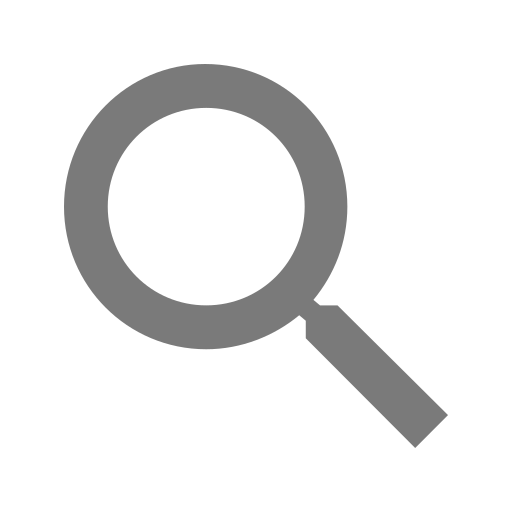
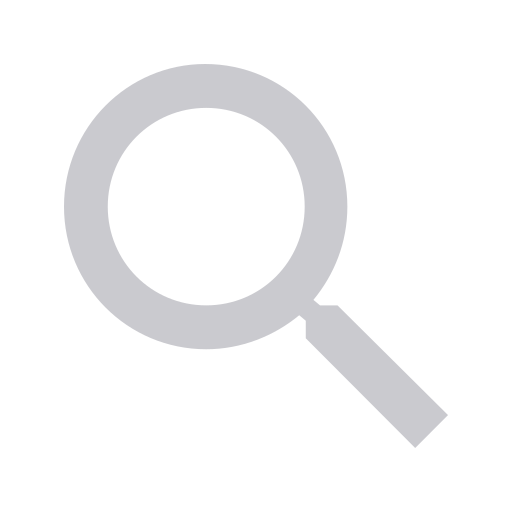
Update navbar active images

Changed region(s): [[0.125, 0.125, 0.875, 0.875]]

diff --git a/client/Components/Presentational/Navbar/Navbar.js b/client/Components/Presentational/Navbar/Navbar.js
@@ -1,6 +1,8 @@
-import React from "react";
+import React, { useContext } from "react";
 import { StyleSheet, View, Image } from "react-native";
 import { Link } from "react-router-native";
+import { Store } from "../../store/store";
+import { navigateApp } from "../../store/actions/index";
 
 import searchIcon from "../../../assets/images/search-icon.png";
 import searchIconSelected from "../../../assets/images/search-icon-selected.png";
@@ -9,25 +11,43 @@ import homeIconSelected from "../../../assets/images/home-icon-selected.png";
 import profileIcon from "../../../assets/images/profile-icon.png";
 import profileIconSelected from "../../../assets/images/profile-icon-selected.png";
 
-const Navbar = ({ history }) => {
+const Navbar = props => {
+  const { state, dispatch } = useContext(Store);
+  const { homeViewSelected, profileViewSelected, searchViewSelected } = state;
+  const handlePress = type => {
+    navigateApp(type, dispatch);
+  };
   return (
     <View style={styles.container}>
-      <Link underlayColor={"#ffffff"} to="/search">
+      <Link
+        onPress={() => handlePress("search")}
+        underlayColor={"#ffffff"}
+        to="/search"
+      >
         <Image
           style={styles.navbarImg}
-          source={history === "/search" ? searchIconSelected : searchIcon}
+          source={searchViewSelected ? searchIconSelected : searchIcon}
         />
       </Link>
-      <Link underlayColor={"#ffffff"} exact to="/">
+      <Link
+        onPress={() => handlePress("home")}
+        underlayColor={"#ffffff"}
+        exact
+        to="/"
+      >
         <Image
           style={styles.navbarImg}
-          source={history === "/" ? homeIconSelected : homeIcon}
+          source={homeViewSelected ? homeIconSelected : homeIcon}
         />
       </Link>
-      <Link underlayColor={"#ffffff"} to="/profile">
+      <Link
+        onPress={() => handlePress("profile")}
+        underlayColor={"#ffffff"}
+        to="/profile"
+      >
         <Image
           style={styles.navbarImg}
-          source={history === "/profile" ? profileIconSelected : profileIcon}
+          source={profileViewSelected ? profileIconSelected : profileIcon}
         />
       </Link>
     </View>

diff --git a/client/Components/Views/HomeView/HomeView.js b/client/Components/Views/HomeView/HomeView.js
@@ -1,5 +1,12 @@
 import React, { useEffect, useContext } from "react";
-import { StyleSheet, ScrollView, View, Text, Image } from "react-native";
+import {
+  StyleSheet,
+  ScrollView,
+  View,
+  Text,
+  Image,
+  ActivityIndicator
+} from "react-native";
 import { Store } from "../../store/store";
 import {
   fetchCharityList,
@@ -12,11 +19,11 @@ import { DonationCard } from "../../Presentational/DonationCard";
 const HomeView = props => {
   const { state, dispatch } = useContext(Store);
   const { donations, charities, token, account } = state;
-  const { firstName, lastName } = account;
+  const { firstName } = account;
   useEffect(() => {
-    let token =
-      "eyJhbGciOiJIUzI1NiIsInR5cCI6IkpXVCJ9.eyJzdWJqZWN0IjoyLCJ1c2VybmFtZSI6ImFkbWluIiwiaWF0IjoxNTU1NDQ0ODU3LCJleHAiOjE1NTU1MzEyNTd9.z8xmaIeUMsaAhuGfbYbwOTCoah0hFq6KrBGDYVmJcwU";
-    let username = "admin";
+    // let token =
+    //   "eyJhbGciOiJIUzI1NiIsInR5cCI6IkpXVCJ9.eyJzdWJqZWN0IjoyLCJ1c2VybmFtZSI6ImFkbWluIiwiaWF0IjoxNTU1NDQ0ODU3LCJleHAiOjE1NTU1MzEyNTd9.z8xmaIeUMsaAhuGfbYbwOTCoah0hFq6KrBGDYVmJcwU";
+    // let username = "admin";
 
     // Get data on home page load for speed of user flow later if not already accessed
     if (!donations.length) {
@@ -41,9 +48,17 @@ const HomeView = props => {
             ? `Afternoon, ${firstName}! Here are your donations:`
             : `Evening, ${firstName}! Here are your donations:`}
         </Text>
-        {donations.map((donation, index) => {
-          return <DonationCard donation={donation} key={index} />;
-        })}
+        {donations.length ? (
+          donations.map((donation, index) => {
+            return <DonationCard donation={donation} key={index} />;
+          })
+        ) : (
+          <ActivityIndicator
+            style={styles.loadingIcon}
+            size="large"
+            color="#4F68F4"
+          />
+        )}
       </ScrollView>
     </View>
   );
@@ -95,6 +110,9 @@ const styles = StyleSheet.create({
     fontFamily: "Roboto-Medium",
     fontSize: 20,
     marginTop: 10
+  },
+  loadingIcon: {
+    marginTop: 50
   }
 });
 

diff --git a/client/Components/Store/reducers/index.js b/client/Components/Store/reducers/index.js
@@ -16,7 +16,10 @@ import {
   FETCH_USER_DONATIONS_SUCCESS,
   FETCH_USER_DONATIONS_ERROR,
   UPDATE_SHOWN_CHARITY_LIST,
-  RESET_SHOWN_CHARITY_LIST
+  RESET_SHOWN_CHARITY_LIST,
+  GO_HOME,
+  GO_SEARCH,
+  GO_PROFILE
 } from "../types/index";
 
 export const initialState = {
@@ -43,6 +46,9 @@ export const initialState = {
   },
   charitySearchInput: "",
   message: "",
+  homeViewSelected: true,
+  searchViewSelected: false,
+  profileViewSelected: false,
   loginStart: false,
   loginSuccess: false,
   loginError: false,
@@ -204,6 +210,27 @@ export const reducer = (state, action) => {
         getUserDonationsStart: false,
         getUserDonationsError: true,
         message: action.payload
+      };
+    case GO_HOME: // Navigation logic
+      return {
+        ...state,
+        homeViewSelected: true,
+        searchViewSelected: false,
+        profileViewSelected: false
+      };
+    case GO_SEARCH: // Navigation logic
+      return {
+        ...state,
+        homeViewSelected: false,
+        searchViewSelected: true,
+        profileViewSelected: false
+      };
+    case GO_PROFILE: // Navigation logic
+      return {
+        ...state,
+        homeViewSelected: false,
+        searchViewSelected: false,
+        profileViewSelected: true
       };
     default:
       return state;

diff --git a/client/Components/Views/SearchView/SearchView.js b/client/Components/Views/SearchView/SearchView.js
@@ -9,7 +9,10 @@ import {
   TextInput
 } from "react-native";
 import { Store } from "../../store/store";
-import { searchCharities } from "../../store/actions/index";
+import {
+  searchCharities,
+  selectCharityProfile
+} from "../../store/actions/index";
 
 import boomBoxPerson from "../../../assets/images/boom-box-person.gif";
 import { CharityCard } from "../../Presentational/CharityCard";
@@ -19,13 +22,6 @@ const { width } = Dimensions.get("window"); // Get window dimensions
 const SearchView = props => {
   const { state, dispatch } = useContext(Store);
   const { charities, shownCharities, charitySearchInput } = state;
-
-  const handleChange = value => {
-    searchCharities(value, charities, dispatch); // Updates charity list shown on screen
-  };
-  const selectCharity = id => {
-    // Finish
-  };
   return (
     <View style={styles.searchContainer}>
       <View style={styles.searchHeader}>
@@ -37,7 +33,7 @@ const SearchView = props => {
           autoFocus={true}
           returnKeyType="done"
           style={styles.input}
-          placeholder="Search for a charity"
+          placeholder="Search for charity"
           id="charitySearchInput"
           value={charitySearchInput}
           onChangeText={text => handleChange(text)}

diff --git a/client/App.js b/client/App.js
@@ -1,4 +1,4 @@
-import React, { useState, useEffect } from "react";
+import React from "react";
 import { View, StyleSheet } from "react-native";
 import { Route } from "react-router-native";
 
@@ -11,27 +11,15 @@ import { Header } from "./Components/Presentational/Header";
 import { Navbar } from "./Components/Presentational/Navbar";
 
 const App = props => {
-  const [user, setUser] = useState({});
-  const [donations, setDonations] = useState([]);
   return (
     <View style={styles.container}>
       <Header />
-      <Route
-        exact
-        path="/"
-        render={props => (
-          <HomeView {...props} user={user} donations={donations} />
-        )}
-      />
-      <Route
-        exact
-        path="/search"
-        render={props => <SearchView {...props} user={user} />}
-      />
+      <Route exact path="/" render={props => <HomeView {...props} />} />
+      <Route exact path="/search" render={props => <SearchView {...props} />} />
       <Route
         exact
         path="/profile"
-        render={props => <ProfileView {...props} user={user} />}
+        render={props => <ProfileView {...props} />}
       />
       <Navbar history={props.history} />
     </View>

diff --git a/client/Components/Views/ProfileView/ProfileView.js b/client/Components/Views/ProfileView/ProfileView.js
@@ -1,5 +1,5 @@
 import React, { useEffect, useContext } from "react";
-import { View, ScrollView, StyleSheet } from "react-native";
+import { View, Text, StyleSheet } from "react-native";
 import { Store } from "../../store/store";
 
 const ProfileView = props => {
@@ -7,7 +7,7 @@ const ProfileView = props => {
   const { account } = state;
   return (
     <View style={styles.profileContainer}>
-      <ScrollView />
+      <Text style={styles.marginTop}>Dude.</Text>
     </View>
   );
 };
@@ -17,9 +17,8 @@ const styles = StyleSheet.create({
     flex: 1,
     alignSelf: "stretch"
   },
-  charityList: {
-    flex: 1,
-    alignSelf: "stretch"
+  text: {
+    marginTop: 150
   }
 });
 

diff --git a/client/Components/Store/actions/index.js b/client/Components/Store/actions/index.js
@@ -17,8 +17,21 @@ import {
   FETCH_USER_DONATIONS_SUCCESS,
   FETCH_USER_DONATIONS_ERROR,
   UPDATE_SHOWN_CHARITY_LIST,
-  RESET_SHOWN_CHARITY_LIST
+  RESET_SHOWN_CHARITY_LIST,
+  GO_HOME,
+  GO_SEARCH,
+  GO_PROFILE
 } from "../types/index";
+
+export const navigateApp = (page, cb) => {
+  if (page === "home") {
+    cb({ type: GO_HOME });
+  } else if (page === "search") {
+    cb({ type: GO_SEARCH });
+  } else {
+    cb({ type: GO_PROFILE });
+  }
+};
 
 // Sets either FaceID/TouchID/other
 export const setBiometryType = (biometryType, cb) => {

diff --git a/client/Components/Presentational/CharityCard/CharityCard.js b/client/Components/Presentational/CharityCard/CharityCard.js
@@ -1,9 +1,14 @@
 import React from "react";
 import { Text, View, StyleSheet } from "react-native";
+import { selectCharityProfile } from "../../store/actions/index";
 
 const CharityCard = ({ charity }) => {
+  const selectCharity = index => {
+    console.log("Working!");
+    // selectCharityProfile(charityName, charities, dispatch);
+  };
   return (
-    <View style={styles.cardContainer}>
+    <View onPress={selectCharity} style={styles.cardContainer}>
       <Text style={styles.charityCardText}>{charity.charityName}</Text>
     </View>
   );

diff --git a/accounts/accountsModel.js b/accounts/accountsModel.js
@@ -25,8 +25,21 @@ function find() {
   );
 }
 
-function findWithPassword() {
-  return db("accounts");
+function findWithPassword(username) {
+  return db("accounts")
+    .where({ username })
+    .first()
+    .select(
+      "id",
+      "username",
+      "firstName",
+      "middleName",
+      "lastName",
+      "email",
+      "phone",
+      "created_at",
+      "updated_at"
+    );
 }
 
 function findById(id) {

diff --git a/client/Components/Store/types/index.js b/client/Components/Store/types/index.js
@@ -29,3 +29,8 @@ export const LOGIN_ERROR = "LOGIN_ERROR";
 
 //============================================================= Miscellaneous Business Logic Types
 export const CLOSE_MODAL = "CLOSE_MODAL";
+
+//============================================================= Navigation Login Types
+export const GO_HOME = "GO_HOME";
+export const GO_PROFILE = "GO_PROFILE";
+export const GO_SEARCH = "GO_SEARCH";

diff --git a/client/Components/Presentational/LoginModal/LoginModal.js b/client/Components/Presentational/LoginModal/LoginModal.js
@@ -18,7 +18,6 @@ const SignUpModal = props => {
   const { loginStart, loginSuccess, loginError, message } = state;
   const goToLogin = e => {
     e.preventDefault();
-    if (loginSuccess) props.history.push("/");
     closeModal(dispatch);
   };
   return (
